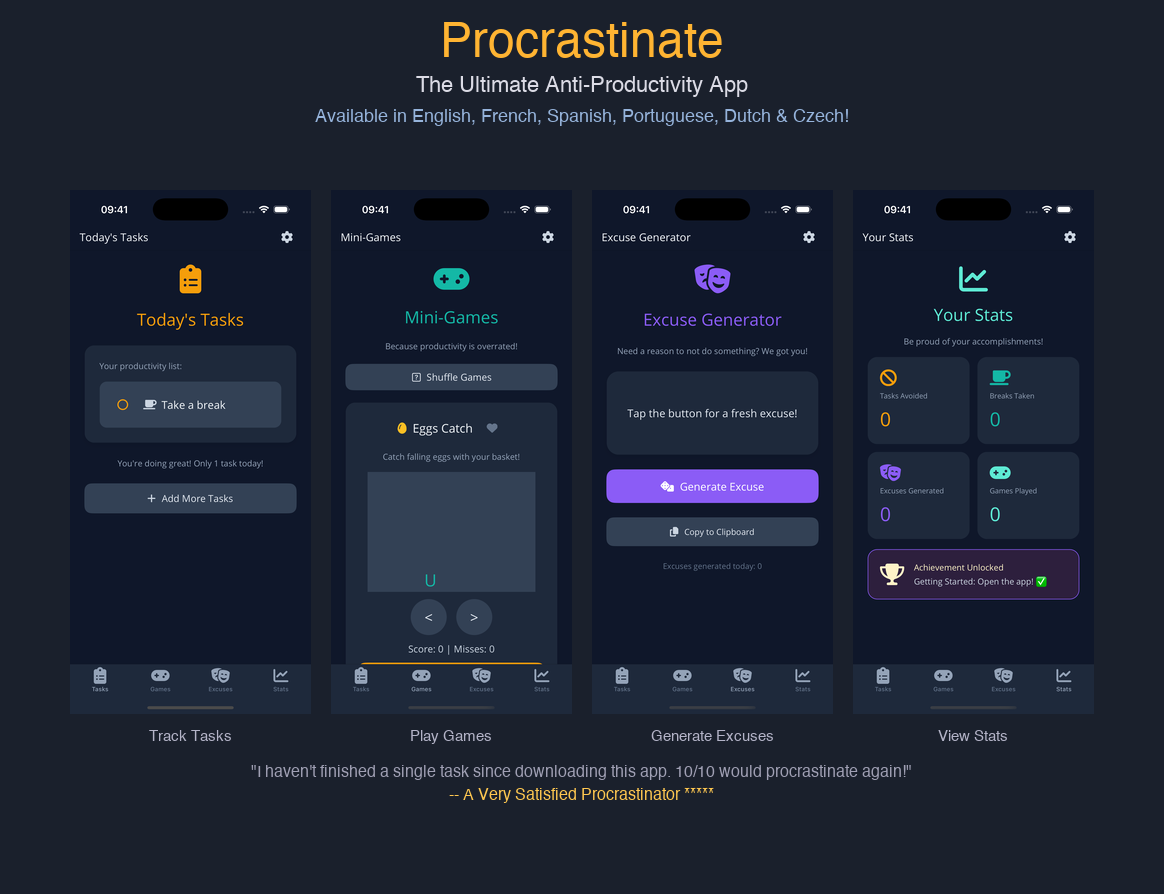
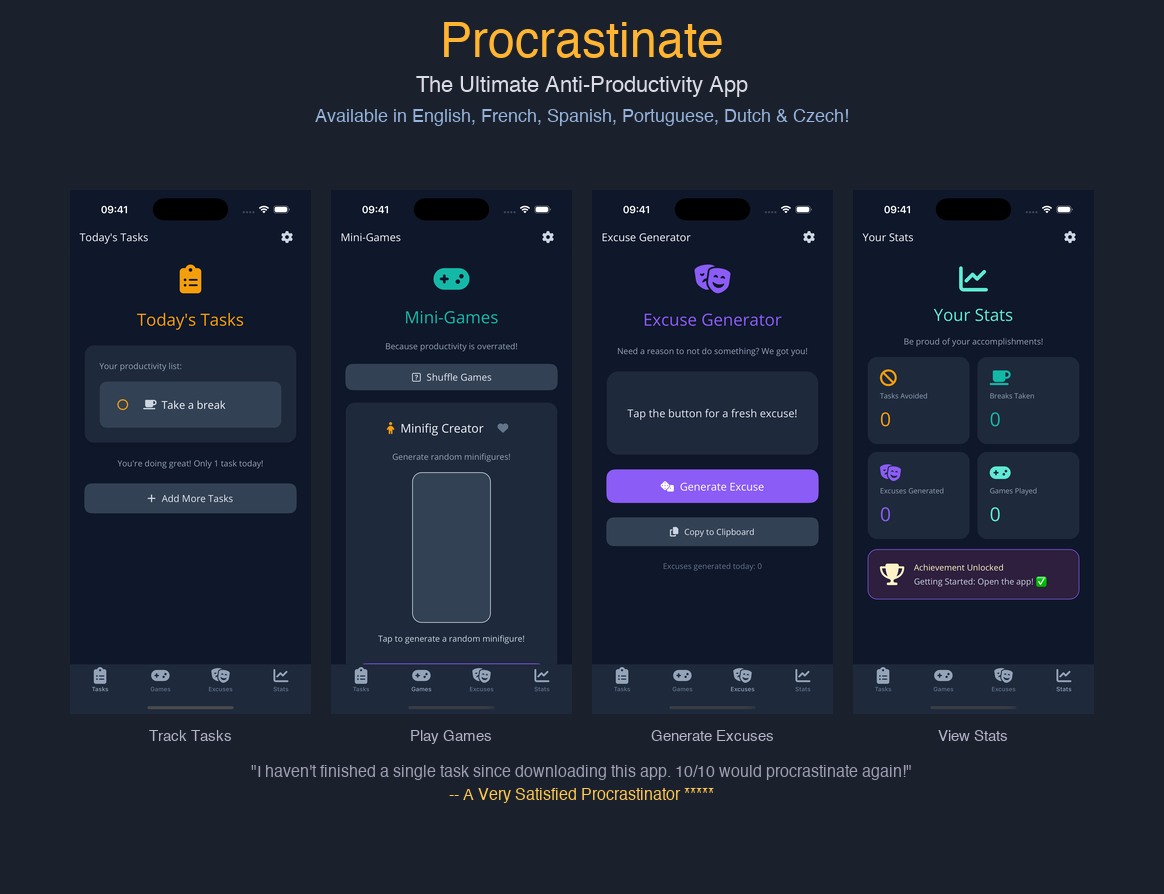
Add Bricklink minifig part images to Minifig Creator game

Changed region(s): [[0.3093, 0.453, 0.4639, 0.755]]

diff --git a/Pages/Games/MinifigGeneratorGameView.xaml b/Pages/Games/MinifigGeneratorGameView.xaml
@@ -4,26 +4,42 @@
              xmlns:strings="clr-namespace:procrastinate.Resources.Strings"
              x:Class="procrastinate.Pages.Games.MinifigGeneratorGameView">
     <VerticalStackLayout Spacing="16">
-        <!-- Minifigure Display -->
+        <!-- Minifigure Display with Images -->
         <Border BackgroundColor="{DynamicResource CardBackgroundAlt}" 
                 StrokeShape="RoundRectangle 16" 
                 Padding="20"
                 HorizontalOptions="Center">
-            <VerticalStackLayout Spacing="4" HorizontalOptions="Center">
+            <VerticalStackLayout Spacing="-10" HorizontalOptions="Center">
                 <!-- Hair/Hat -->
-                <Label x:Name="HairLabel" Text="^" FontSize="32" HorizontalOptions="Center" TextColor="{DynamicResource Gray200}"/>
-                <!-- Face -->
-                <Label x:Name="FaceLabel" Text=":)" FontSize="28" HorizontalOptions="Center" TextColor="#FBBF24"/>
+                <Image x:Name="HairImage" 
+                       Source="hair_flat.png" 
+                       HeightRequest="50" 
+                       WidthRequest="80"
+                       Aspect="AspectFit"
+                       HorizontalOptions="Center"/>
+                <!-- Head/Face -->
+                <Image x:Name="HeadImage" 
+                       Source="head_yellow.png" 
+                       HeightRequest="60" 
+                       WidthRequest="60"
+                       Aspect="AspectFit"
+                       HorizontalOptions="Center"/>
                 <!-- Torso -->
-                <Grid ColumnDefinitions="20,40,20" HorizontalOptions="Center">
-                    <Label x:Name="LeftArmLabel" Grid.Column="0" Text="/" FontSize="24" HorizontalOptions="End" TextColor="{DynamicResource Gray200}"/>
-                    <Label x:Name="TorsoLabel" Grid.Column="1" Text="[  ]" FontSize="24" HorizontalOptions="Center"/>
-                    <Label x:Name="RightArmLabel" Grid.Column="2" Text="\" FontSize="24" HorizontalOptions="Start" TextColor="{DynamicResource Gray200}"/>
-                </Grid>
+                <Image x:Name="TorsoImage" 
+                       Source="torso_red_plain.png" 
+                       HeightRequest="70" 
+                       WidthRequest="90"
+                       Aspect="AspectFit"
+                       HorizontalOptions="Center"/>
                 <!-- Legs -->
-                <Label x:Name="LegsLabel" Text="| |" FontSize="24" HorizontalOptions="Center"/>
-                <!-- Accessory (held item) -->
-                <Label x:Name="AccessoryLabel" Text="" FontSize="18" HorizontalOptions="Center" TextColor="{DynamicResource Tertiary}"/>
+                <Image x:Name="LegsImage" 
+                       Source="legs_blue.png" 
+                       HeightRequest="60" 
+                       WidthRequest="70"
+                       Aspect="AspectFit"
+                       HorizontalOptions="Center"/>
+                <!-- Accessory text -->
+                <Label x:Name="AccessoryLabel" Text="" FontSize="16" HorizontalOptions="Center" TextColor="{DynamicResource Tertiary}" Margin="0,10,0,0"/>
             </VerticalStackLayout>
         </Border>
         

diff --git a/Pages/Games/MinifigGeneratorGameView.xaml.cs b/Pages/Games/MinifigGeneratorGameView.xaml.cs
@@ -4,46 +4,34 @@ namespace procrastinate.Pages.Games;
 
 public partial class MinifigGeneratorGameView : ContentView
 {
-    // Hair/headwear parts - more LEGO-like
-    private static readonly string[] HairStyles = [
-        "===",    // Flat top
-        "/\\",    // Pointy
-        "~~~",    // Wavy
-        "(O)",    // Helmet
-        "|||",    // Spiky
-        "^^^",    // Crown
-        "---",    // Bald/cap
-        "ooo",    // Curly
-        "***",    // Afro
-        "###"     // Hat
+    // Image sources for each part
+    private static readonly string[] HairImages = [
+        "hair_flat.png",
+        "hair_flat_black.png", 
+        "hair_swept.png",
+        "hair_cap_red.png"
     ];
     
-    // Faces - classic minifig expressions
-    private static readonly string[] Faces = [
-        "o  o\n  <  \n\\__/",   // Happy
-        "o  o\n  <  \n/--\\",   // Neutral
-        "-  -\n  <  \n\\__/",   // Chill
-        "o  o\n  <  \n/  \\",   // Worried
-        "^  ^\n  <  \n\\__/",   // Excited
-        "o  o\n  <  \n---",     // Serious
-        "*  *\n  <  \n\\__/",   // Starstruck
-        "o  o\n  O  \n\\__/",   // Surprised
-        "o  -\n  <  \n\\__/",   // Winking
-        ">  <\n  <  \n\\__/"    // Angry
+    private static readonly string[] HeadImages = [
+        "head_yellow.png"
     ];
     
-    // Simplified face for single line display
-    private static readonly string[] SimpleFaces = ["o_o", "^_^", "-_-", "O_O", ">_<", "=_=", "*_*", ";_)", "._.", "~_~"];
+    private static readonly string[] TorsoImages = [
+        "torso_red_plain.png",
+        "torso_blue_plain.png",
+        "torso_yellow.png"
+    ];
     
-    private static readonly string[] TorsoPatterns = ["[###]", "[   ]", "[ X ]", "[ = ]", "[ | ]", "[ ~ ]", "[ * ]", "[ + ]", "[ / ]", "[ @ ]"];
-    private static readonly string[] LegStyles = ["| |", "| |", "/ \\", "| |", "| |", "| |", "| |"];
-    private static readonly string[] Accessories = ["", "sword", "shield", "cup", "tool", "wand", "coin", "gem", "key", "book"];
+    private static readonly string[] LegsImages = [
+        "legs_blue.png",
+        "legs_black.png",
+        "legs_plain_black.png",
+        "legs_plain_red.png"
+    ];
     
-    private static readonly string[] HairColors = ["#8B4513", "#FFD700", "#1C1C1C", "#FF6B35", "#8B0000", "#CD853F", "#A0522D", "#F5F5DC"];
-    private static readonly string[] TorsoColors = ["#EF4444", "#3B82F6", "#22C55E", "#F59E0B", "#8B5CF6", "#EC4899", "#14B8A6", "#6366F1"];
-    private static readonly string[] LegColors = ["#1E40AF", "#1C1C1C", "#7C3AED", "#059669", "#DC2626", "#92400E"];
+    private static readonly string[] Accessories = ["", "sword", "shield", "cup", "tool", "wand", "coin", "gem", "key", "book", "pizza", "wrench", "guitar"];
     
-    private static readonly string[] FirstNames = ["Brick", "Block", "Stud", "Plate", "Minnie", "Figgy", "Lloyd", "Emmet", "Benny", "Wyld"];
+    private static readonly string[] FirstNames = ["Brick", "Block", "Stud", "Plate", "Minnie", "Figgy", "Lloyd", "Emmet", "Benny", "Wyld", "Lucy", "Rex"];
     private static readonly string[] LastNames = ["Builder", "Master", "Maker", "Creator", "Smith", "Jones", "McBrick", "O'Block", "Von Stud", "Blockson"];
     private static readonly string[] Titles = ["the Brave", "the Builder", "the Wise", "the Swift", "the Bold", "the Creative", "the Tiny", "the Mighty", "Jr.", "III"];
     
@@ -62,19 +50,14 @@ public partial class MinifigGeneratorGameView : ContentView
 
     private void GenerateMinifig()
     {
-        // Random parts
-        HairLabel.Text = HairStyles[Random.Shared.Next(HairStyles.Length)];
-        FaceLabel.Text = SimpleFaces[Random.Shared.Next(SimpleFaces.Length)];
-        TorsoLabel.Text = TorsoPatterns[Random.Shared.Next(TorsoPatterns.Length)];
-        LegsLabel.Text = LegStyles[Random.Shared.Next(LegStyles.Length)];
+        // Random parts - set image sources
+        HairImage.Source = HairImages[Random.Shared.Next(HairImages.Length)];
+        HeadImage.Source = HeadImages[Random.Shared.Next(HeadImages.Length)];
+        TorsoImage.Source = TorsoImages[Random.Shared.Next(TorsoImages.Length)];
+        LegsImage.Source = LegsImages[Random.Shared.Next(LegsImages.Length)];
         
         var accessory = Accessories[Random.Shared.Next(Accessories.Length)];
-        AccessoryLabel.Text = accessory != "" ? $"[{accessory}]" : "";
-        
-        // Random colors
-        HairLabel.TextColor = Color.FromArgb(HairColors[Random.Shared.Next(HairColors.Length)]);
-        TorsoLabel.TextColor = Color.FromArgb(TorsoColors[Random.Shared.Next(TorsoColors.Length)]);
-        LegsLabel.TextColor = Color.FromArgb(LegColors[Random.Shared.Next(LegColors.Length)]);
+        AccessoryLabel.Text = accessory != "" ? $"Holding: {accessory}" : "";
         
         // Random name
         var firstName = FirstNames[Random.Shared.Next(FirstNames.Length)];

diff --git a/.github/TODO.md b/.github/TODO.md
@@ -22,4 +22,4 @@
 - ~~add a game that randomly creates a LEGO minifigure~~
 - ~~clickspeed: ScoreLabel should use a binding to update~~
 - ~~egg catch: only one egg lands at a time~~
-- ~~minifig: improved LEGO-style parts~~
+- ~~minifig: improve graphics with Bricklink images~~
